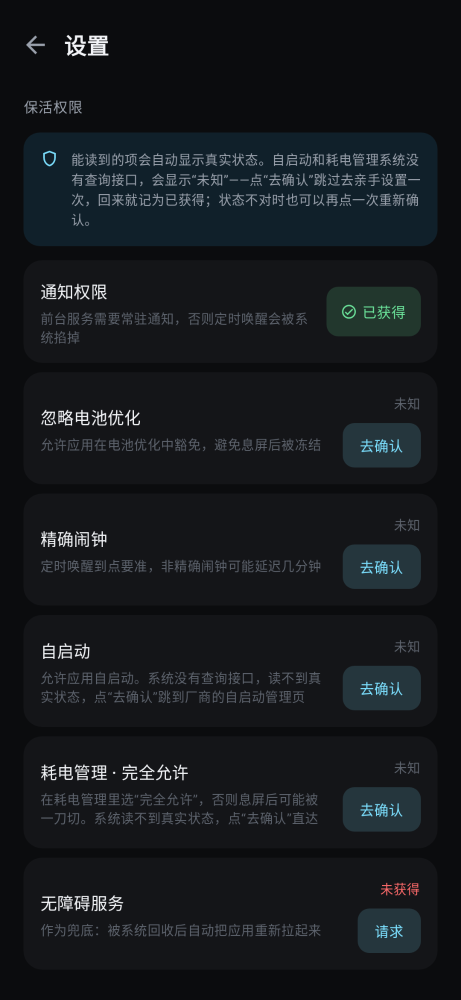
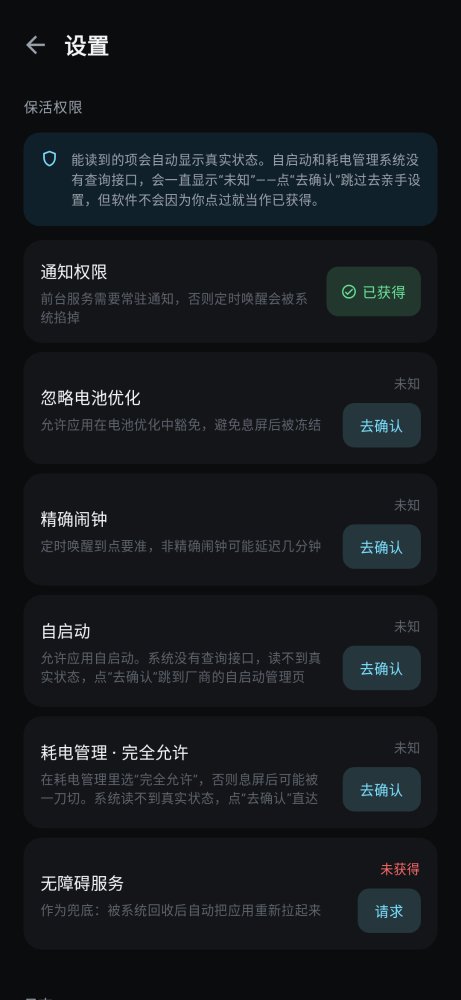
fix: 权限状态只认系统接口结果，读不到真实状态的项保持未知

diff --git a/app/src/main/java/com/starchen/wol/ui/SettingsScreen.kt b/app/src/main/java/com/starchen/wol/ui/SettingsScreen.kt
@@ -72,9 +72,7 @@ fun SettingsScreen(
     showLogs: Boolean,
     writeLogs: Boolean,
     logs: List<LogStore.Entry>,
-    confirmed: List<String>,
     onBack: () -> Unit,
-    onConfirmPermission: (KeepAliveItem) -> Unit,
     onShowLogsChange: (Boolean) -> Unit,
     onWriteLogsChange: (Boolean) -> Unit,
     onClearLogs: () -> Unit,
@@ -83,11 +81,10 @@ fun SettingsScreen(
     val context = LocalContext.current
     val scope = rememberCoroutineScope()
 
-    // 检测优先：能读出真实状态就如实显示；自启动、厂商耗电管理这类读不到的项，
-    // 只有用户亲手确认过才算已获得，否则显示“未知”。
+    // 只有系统接口明确返回结果时才显示已获得 / 未获得；
+    // 读不到真实状态的项（自启动、厂商耗电管理）一律保持“未知”，不替用户猜。
     val states = KeepAliveItem.entries.map {
-        val detected = KeepAliveManager.isGranted(context, it)
-        KeepAliveState(it, detected ?: (if (it.name in confirmed) true else null))
+        KeepAliveState(it, KeepAliveManager.isGranted(context, it))
     }
     var selectedArchive by remember { mutableStateOf(0) }
     var archives by remember { mutableStateOf(emptyList<LogStore.Archive>()) }
@@ -140,7 +137,7 @@ fun SettingsScreen(
                 HintCard(
                     tint = Color(0xFF10202A),
                     iconTint = Accent,
-                    text = "能读到的项会自动显示真实状态。自启动和耗电管理系统没有查询接口，会显示“未知”——点“去确认”跳过去亲手设置一次，回来就记为已获得；状态不对时也可以再点一次重新确认。",
+                    text = "能读到的项会自动显示真实状态。自启动和耗电管理系统没有查询接口，会一直显示“未知”——点“去确认”跳过去亲手设置，但软件不会因为你点过就当作已获得。",
                     textColor = TextSecondary
                 )
                 Spacer(Modifier.height(12.dp))

diff --git a/app/src/main/java/com/starchen/wol/MainActivity.kt b/app/src/main/java/com/starchen/wol/MainActivity.kt
@@ -178,9 +178,7 @@ private fun AppRoot(
                     showLogs = settings.showLogs,
                     writeLogs = settings.writeLogs,
                     logs = logs,
-                    confirmed = settings.confirmedPermissions,
                     onBack = { screen = Screen.Home },
-                    onConfirmPermission = { viewModel.confirmPermission(it) },
                     onShowLogsChange = { viewModel.setShowLogs(it) },
                     onWriteLogsChange = { viewModel.setWriteLogs(it) },
                     onClearLogs = { viewModel.clearLogs() },

diff --git a/app/src/test/java/com/starchen/wol/ScreenshotTest.kt b/app/src/test/java/com/starchen/wol/ScreenshotTest.kt
@@ -113,9 +113,7 @@ class ScreenshotTest {
                     showLogs = true,
                     writeLogs = true,
                     logs = fakeLogs,
-                    confirmed = emptyList(),
                     onBack = {},
-                    onConfirmPermission = {},
                     onShowLogsChange = {},
                     onWriteLogsChange = {},
                     onClearLogs = {},

diff --git a/history/history.md b/history/history.md
@@ -4,7 +4,7 @@
 
 ## v1.0.11
 
-- 保活权限恢复真实检测，状态分三档显示：已获得 / 未获得 / 未知。通知、电池优化、精确闹钟、无障碍能读到真实状态；自启动和厂商耗电管理系统没有查询接口，显示“未知”，需要点“去确认”跳过去亲手设置一次。
+- 保活权限恢复真实检测，状态分三档显示：已获得 / 未获得 / 未知。通知、电池优化、精确闹钟、无障碍能读到真实状态；自启动和厂商耗电管理系统没有查询接口，**一直显示「未知」**，点「去确认」只能跳过去手动设置，软件不会因为你点过就记成已获得。
 - “开机自启动”更名为“自启动”，说明文字同步调整——这一项控制的是应用能否自启动，不是开机广播。
 - 构建调整：签名材料不再写死在源码里，改为从环境变量或本地 `local.properties` 读取；GitHub Actions 未配置签名 secret 时改用随机生成的一次性密钥，避免仓库里出现明文密码。
 

diff --git a/README.md b/README.md
@@ -97,7 +97,7 @@ WOL 定时任务要活得久，单靠一个 App 是打不过国产 ROM 的。现
 3. 前台服务被划掉或回收时，用复活闹钟（AlarmManager）把它拉回来
 4. 设置页逐项申请：通知、电池优化豁免、精确闹钟、自启动、耗电管理、无障碍兜底
 
-保活权限按真实状态显示三档：**已获得 / 未获得 / 未知**。通知、电池优化豁免、精确闹钟、无障碍能读到系统真实状态，会如实显示；自启动和厂商耗电管理没有查询接口，显示「未知」，点「去确认」跳过去亲手设置一次，回来就记为已获得。状态不对时可以再点一次重新确认。
+保活权限按真实状态显示三档：**已获得 / 未获得 / 未知**。通知、电池优化豁免、精确闹钟、无障碍能读到系统真实状态，会如实显示；自启动和厂商耗电管理没有查询接口，会一直显示「未知」——点「去确认」跳过去亲手设置，但软件不会因为你点过就记成已获得。
 
 ## 目录
 
